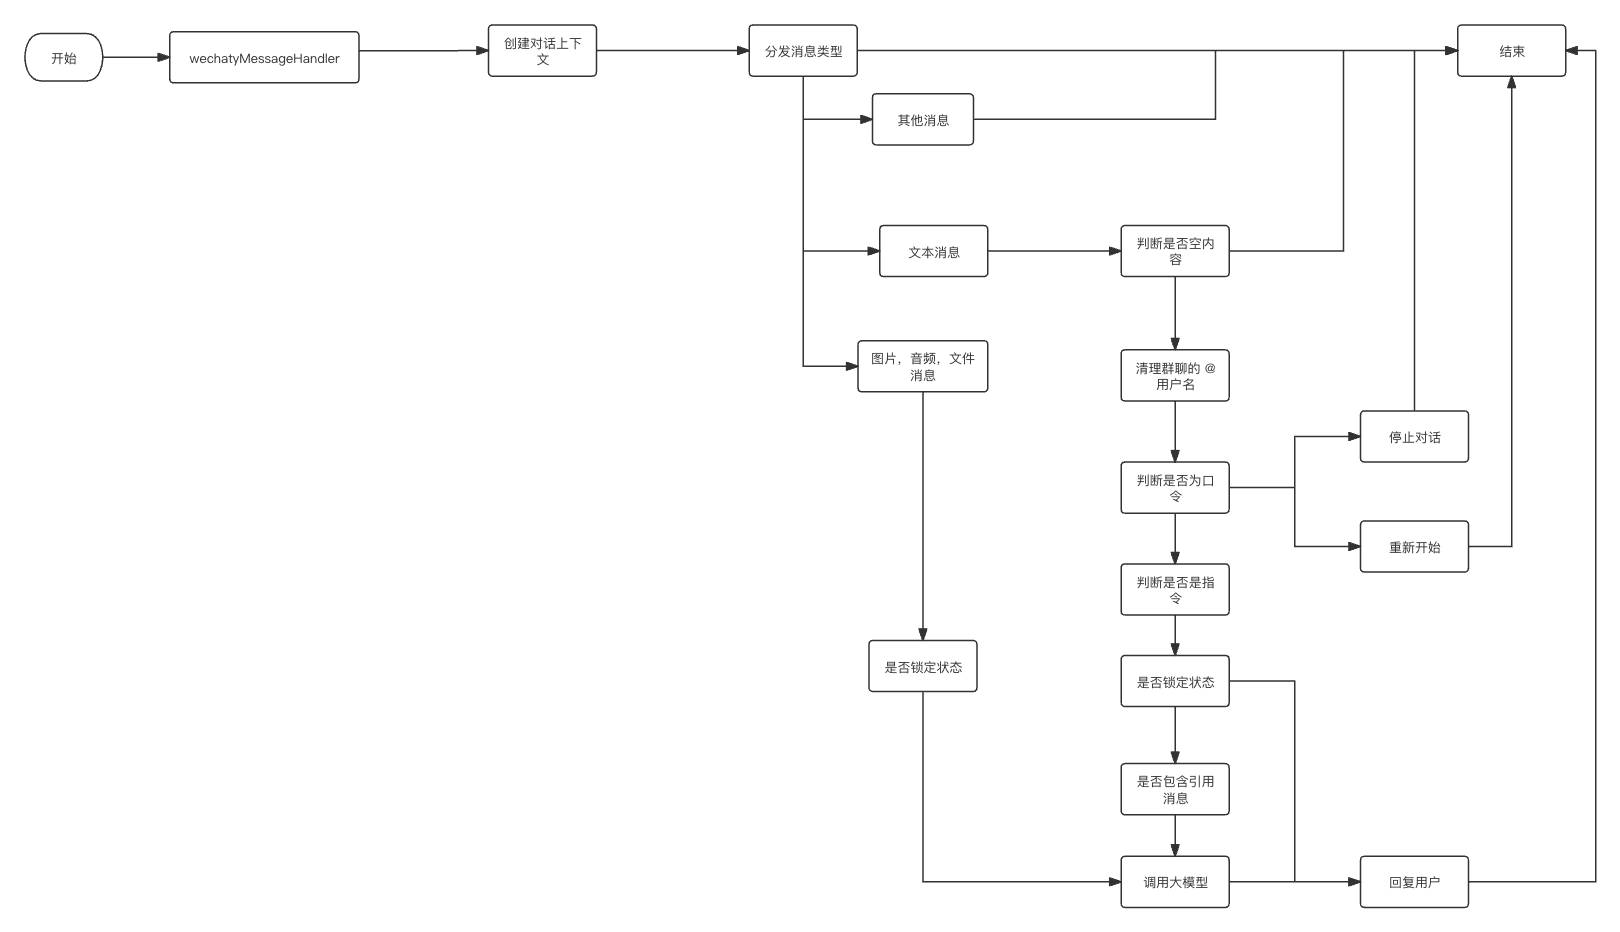
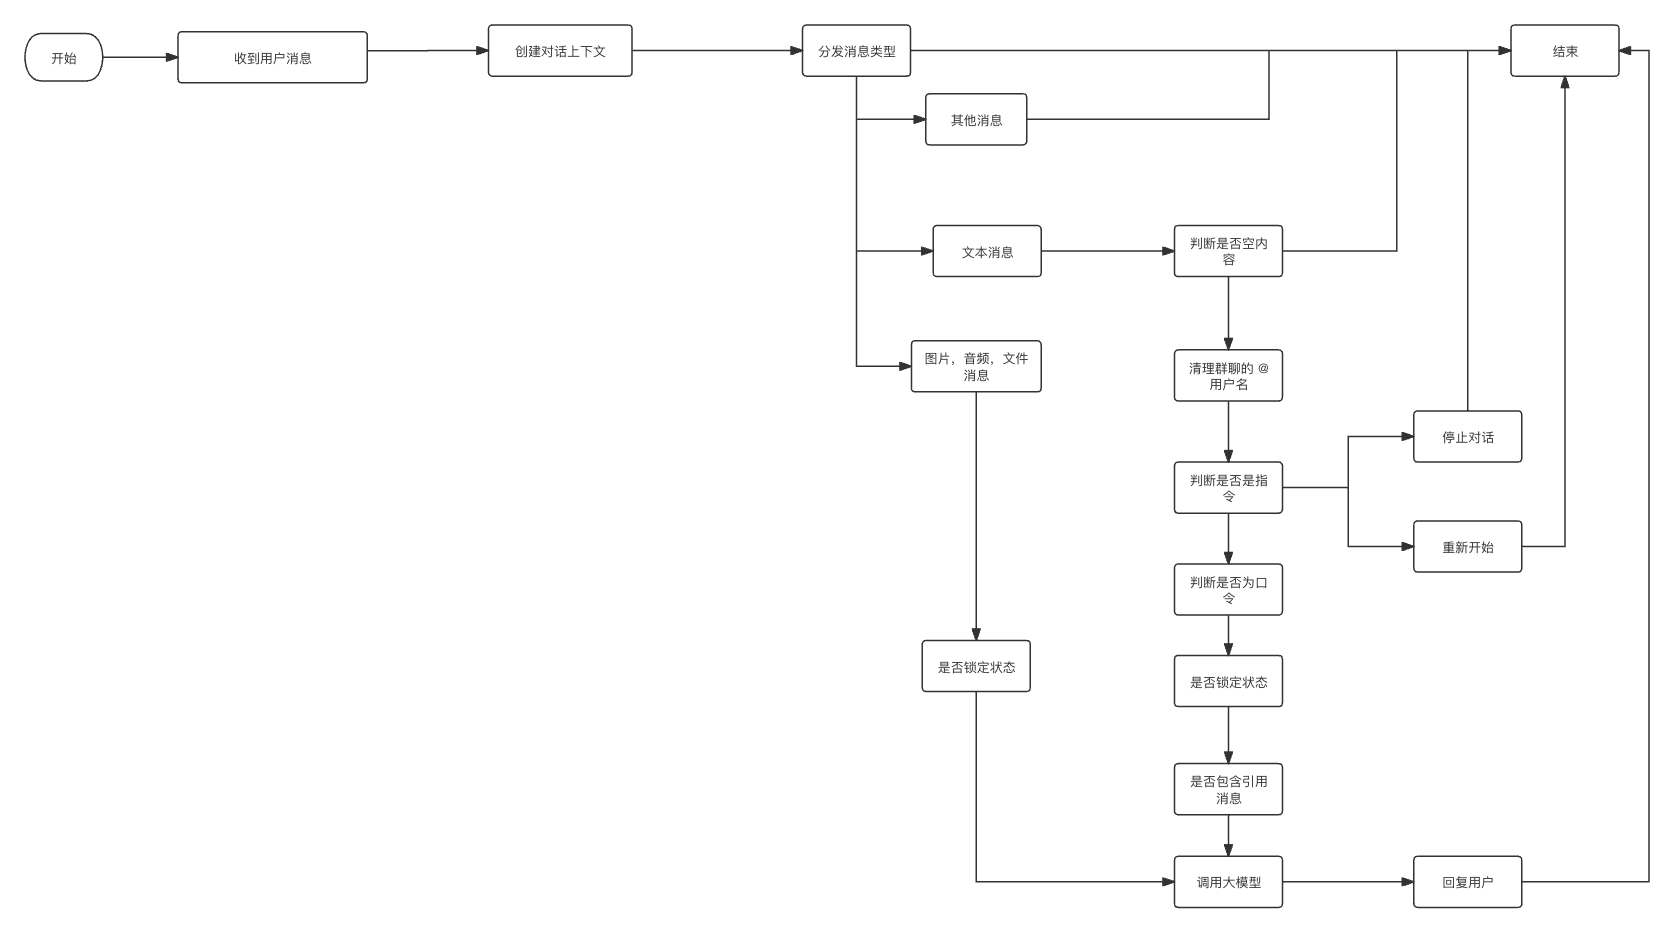
优化文档与提示

diff --git a/src/core/processTextMessage.ts b/src/core/processTextMessage.ts
@@ -5,6 +5,10 @@ import { toSingleQuotes } from '../vendors';
 
 const REF_MSG_SEP = '- - - - - - - - - - - - - - -';
 
+const stopWords = ['停', '停止', '停止回复'];
+
+const newWords = ['新对话', '新聊天', '重新开始', '重置'];
+
 /**
  * 清理用户消息
  *
@@ -25,6 +29,8 @@ export async function processTextMessage(
   // 拒绝空内容
   let text = message.text().trim();
   if (!text) {
+    controller.abort();
+
     return reply(codeBlock`
       ⊶ 系统提示
       ﹊
@@ -53,7 +59,7 @@ export async function processTextMessage(
     return;
   }
 
-  if (['停止', '停止回复'].includes(text)) {
+  if (stopWords.includes(text)) {
     if (ctx.isLocked) {
       monitor.stats.skipped += 1;
       ctx.abort();
@@ -66,7 +72,7 @@ export async function processTextMessage(
   }
 
   // 允许用户主动终止对话
-  if (['新对话', '新聊天', '重新开始'].includes(text)) {
+  if (newWords.includes(text)) {
     ctx.session.clear();
 
     if (ctx.isLocked) {
@@ -78,7 +84,9 @@ export async function processTextMessage(
     return reply(codeBlock`
       ⊶ 系统提示
       ﹊
-      好的，让我们重新开始聊天吧！你有什么想和我聊的吗？`);
+      好的，新的对话从现在开始，期待与您的交流。
+
+      如有任何问题或需要帮助，请随时提出.`);
   }
 
   // Note: 可以解决提升多模型切换命令的优先级

diff --git a/demo/llm/multi-llms.ts b/demo/llm/multi-llms.ts
@@ -31,19 +31,19 @@ async function main() {
 
   console.log('查看模型\n');
   await assistant.handler(createMockTextMessage('查看模型'));
-  console.log('\n')
+  console.log('\n');
   await assistant.handler(createMockTextMessage('第一次对话'));
 
   console.log('\n---------------\n');
   console.log('切换星火\n');
   await assistant.handler(createMockTextMessage('切换星火'));
-  console.log('\n')
+  console.log('\n');
   await assistant.handler(createMockTextMessage('第二次对话'));
 
   console.log('\n---------------\n');
   console.log('查看模型\n');
   await assistant.handler(createMockTextMessage('查看模型'));
-  console.log('\n')
+  console.log('\n');
   await assistant.handler(createMockTextMessage('第三次对话'));
 }
 

diff --git a/docs/process.md b/docs/process.md
@@ -10,14 +10,12 @@
 
 ### 文本处理
 
-> 计划是通过派发 `hook:onRoomMentionSelfTextMessage` 和 `hook:onIndividualTextMessage` 解决 `请求锁` 与 `切换模型` 的优先级，
-
 **文本内容处理优先级**
 
 1. 判断是否空内容
 2. 清理提及的用户文本
-3. 判断是否口令
-4. 判断是否指令
+3. 判断是否指令
+4. 判断是否口令
 5. 判断是否锁定状态
 6. 判断是否包含引用消息文本
 
@@ -29,8 +27,8 @@
 
 1. 命令调用
 2. 口令(部分)调用
-3. 请求锁
-4. 切换/查看模型（此口令由 [MultiChatModelSwitch](../src/llms/multi.ts) 提供）
+3. 口令：切换/查看模型（此口令由 [MultiChatModelSwitch](../src/llms/multi.ts) 提供）
+4. 请求锁
 5. 调用 AI 大模型
 
 因为 **口令** 可以解除 **请求锁**，而 **命令** 不需要上下文，所以在请求锁之前。
